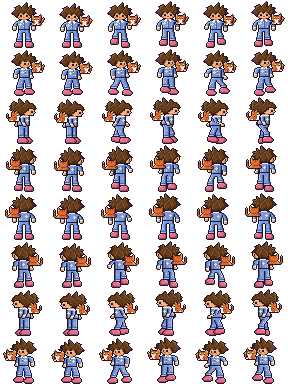
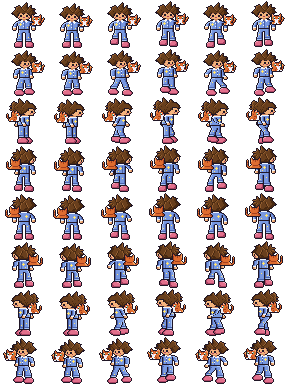
Shrink the color palette to 30 colors
All sprites now share one 30-color palette (grouped into small shading ramps); several
characters point at the same color. Rebuilt every sprite sheet from the existing grids.

diff --git a/art-source/isaac-jr/palette.py b/art-source/isaac-jr/palette.py
@@ -1,61 +1,53 @@
-# The colors Isaac Jr. and Scarlet are allowed to use.
+# The Zombie Dreams color palette: ONE shared set of 30 colors for all the pixel art.
 # Each sprite in grids/ is a text picture: one character = one pixel.
-# Change a color here, rebuild, and every frame updates.
+# Change a color here, rebuild, and every sprite that uses it updates.
+#
+# To keep the art simple, several characters point at the SAME color
+# (for example 'k' zombie eyes and 'o' outline are both the dark outline color).
+
+# --- the 30 colors --------------------------------------------------------
+OUTLINE = (32, 22, 38)          # dark purple-black: outlines, eyes
+WHITE = (240, 244, 252)         # cuffs, collars, shine, cream, light-effect cores
+STAR = (255, 226, 110)          # yellow: pajama stars, moon prints, sparkles, lamp light
+
+SKIN_SHADOW, SKIN, SKIN_LIGHT = (210, 140, 98), (243, 179, 124), (252, 212, 170)
+HAIR_SHADOW, HAIR, HAIR_LIGHT = (72, 41, 17), (105, 63, 29), (146, 94, 48)
+BLUE_SHADOW, BLUE, BLUE_LIGHT = (74, 98, 170), (120, 152, 224), (172, 198, 246)   # Isaac Jr.'s pajamas
+PINK_SHADOW, PINK, PINK_LIGHT = (168, 66, 98), (226, 112, 140), (248, 166, 186)   # slippers, mouth, cat nose
+GINGER_SHADOW, GINGER, GINGER_LIGHT = (164, 64, 30), (222, 108, 48), (250, 168, 98)   # Scarlet's fur
+MOLD_SHADOW, MOLD, MOLD_LIGHT = (88, 128, 92), (126, 170, 120), (172, 208, 150)       # zombie skin
+GRAPE_SHADOW, GRAPE, GRAPE_LIGHT, GRAPE_PALE = (84, 64, 128), (130, 106, 184), (180, 160, 226), (214, 198, 246)   # zombie pajamas, dream smoke
+GRAY, GRAY_LIGHT = (128, 120, 140), (170, 162, 182)     # zombie hair
+TEAL_SHADOW, TEAL, TEAL_LIGHT = (30, 104, 150), (62, 176, 196), (140, 230, 232)       # XP dream shard
 
 PALETTE = {
     ".": None,                 # transparent
-    "o": (32, 22, 38),         # outline (soft purple-black)
+    "o": OUTLINE,              # outline
+    "k": OUTLINE,              # zombie eyes
+    "w": WHITE,                # white
+    "W": WHITE,                # cat cream
+    "e": WHITE,                # zombie eye white
+    "y": STAR,                 # yellow star / moon
+    "l": STAR,                 # zombie pajama print
 
-    # Hair (brown, spiky)
-    "h": (72, 41, 17),         # hair shadow
-    "H": (105, 63, 29),        # hair
-    "j": (146, 94, 48),        # hair highlight
+    "s": SKIN_SHADOW, "S": SKIN, "t": SKIN_LIGHT,
+    "h": HAIR_SHADOW, "H": HAIR, "j": HAIR_LIGHT,
+    "b": BLUE_SHADOW, "B": BLUE, "c": BLUE_LIGHT,
+    "p": PINK_SHADOW, "P": PINK, "q": PINK_LIGHT,
+    "m": PINK_SHADOW,          # mouth / blush
+    "n": PINK_LIGHT,           # cat nose / inner ears
 
-    # Skin
-    "s": (210, 140, 98),       # skin shadow
-    "S": (243, 179, 124),      # skin
-    "t": (252, 212, 170),      # skin highlight
-    "m": (196, 92, 104),       # mouth / blush
+    "r": GINGER_SHADOW, "R": GINGER, "f": GINGER_LIGHT,
+    "g": MOLD,                 # cat eyes (green)
 
-    # Pajamas (light blue)
-    "b": (74, 98, 170),        # pajama shadow
-    "B": (120, 152, 224),      # pajama
-    "c": (172, 198, 246),      # pajama highlight
-    "y": (255, 226, 110),      # yellow star print
-    "w": (240, 244, 252),      # white (cuffs, collar, eye shine)
+    "z": MOLD_SHADOW, "Z": MOLD, "x": MOLD_LIGHT,
+    "a": GRAPE_SHADOW, "A": GRAPE, "d": GRAPE_LIGHT, "D": GRAPE_PALE,
+    "v": GRAY, "u": GRAY, "U": GRAY_LIGHT,
 
-    # Slippers (pink)
-    "p": (168, 66, 98),        # slipper shadow
-    "P": (226, 112, 140),      # slipper
-    "q": (248, 166, 186),      # slipper highlight
-
-    # Scarlet the cat (ginger)
-    "r": (164, 64, 30),        # cat shadow / stripes
-    "R": (222, 108, 48),       # cat fur
-    "f": (250, 168, 98),       # cat fur highlight
-    "W": (252, 240, 226),      # cat cream (muzzle, chest, paws)
-    "g": (92, 178, 96),        # cat eyes (green)
-    "n": (236, 124, 146),      # cat nose / inner ears
-
-    # Zombies (sleepwalkers): sickly green skin, purple pajamas
-    "z": (88, 128, 92),        # zombie skin shadow
-    "Z": (126, 170, 120),      # zombie skin
-    "x": (172, 208, 150),      # zombie skin highlight
-    "k": (52, 36, 66),         # zombie eyes (half-closed, sleepy)
-    "e": (236, 232, 190),      # zombie eye white / bags highlight
-    "a": (84, 64, 128),        # zombie pajama shadow
-    "A": (130, 106, 184),      # zombie pajama
-    "d": (180, 160, 226),      # zombie pajama highlight
-    "l": (255, 236, 150),      # zombie pajama print (moons/stars, pale yellow)
-    "u": (128, 120, 140),      # zombie hair (dull gray-purple, bed head)
-    "U": (170, 162, 182),      # zombie hair highlight
-    "v": (96, 88, 108),        # zombie hair shadow
-
-    # Items and effects: dream-shard (XP gem) teal, dream-smoke purple
-    "i": (62, 176, 196),       # gem mid
-    "I": (140, 230, 232),      # gem highlight
-    "J": (30, 104, 150),       # gem shadow
-    "D": (214, 198, 246),      # dream smoke, lightest
+    "i": TEAL, "I": TEAL_LIGHT, "J": TEAL_SHADOW,
 }
 
-FRAME_SIZE = 48  # every body frame is 48 x 48 pixels; feet touch the bottom row
+FRAME_SIZE = 48  # Isaac Jr.'s body frames are 48 x 48 pixels; feet touch the bottom row
+
+if __name__ == "__main__":
+    print(len({c for c in PALETTE.values() if c}), "distinct colors")
